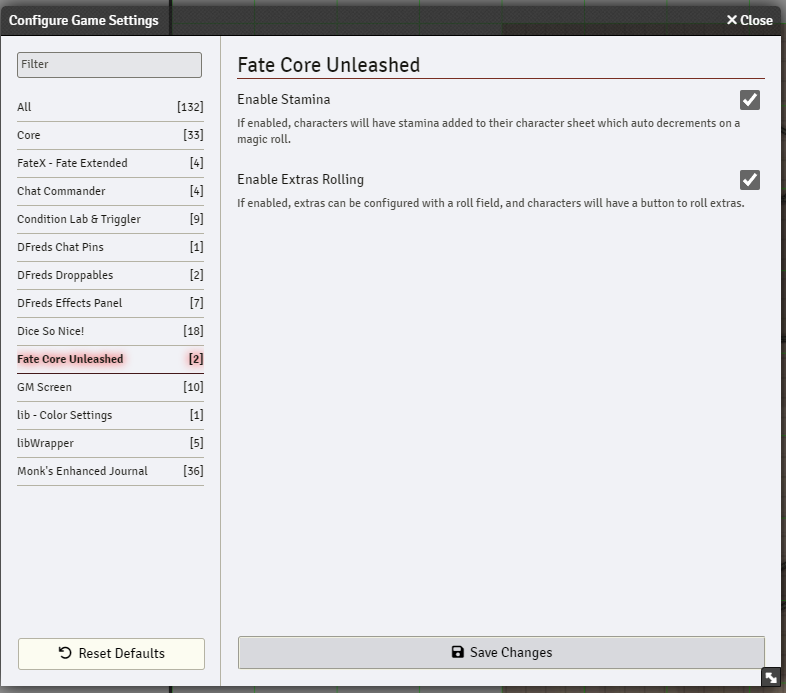
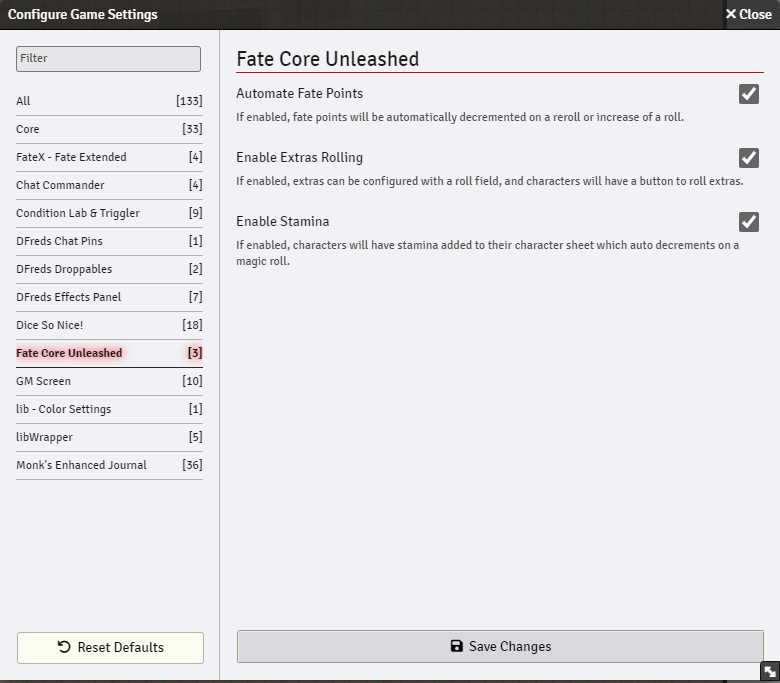
Update docs to include fate point automation

Changed region(s): [[0.0, 0.0, 1.0, 1.0]]

diff --git a/README.md b/README.md
@@ -40,8 +40,13 @@
 
 - Adds stamina management to character sheets
 - Automatically decrements stamina when performing configured "magic" rolls
+- Automatically decrement fate points when modifying a roll via a re-roll or increase
 - Adds configurable roll expressions to Extra items (e.g. "4dF+2")
 - Adds one-click roll button to Extra items for quick access
+
+Fate Point Automation:
+
+![Fate Point Automation](./docs/fate-point-demo.gif)
 
 Stamina:
 
